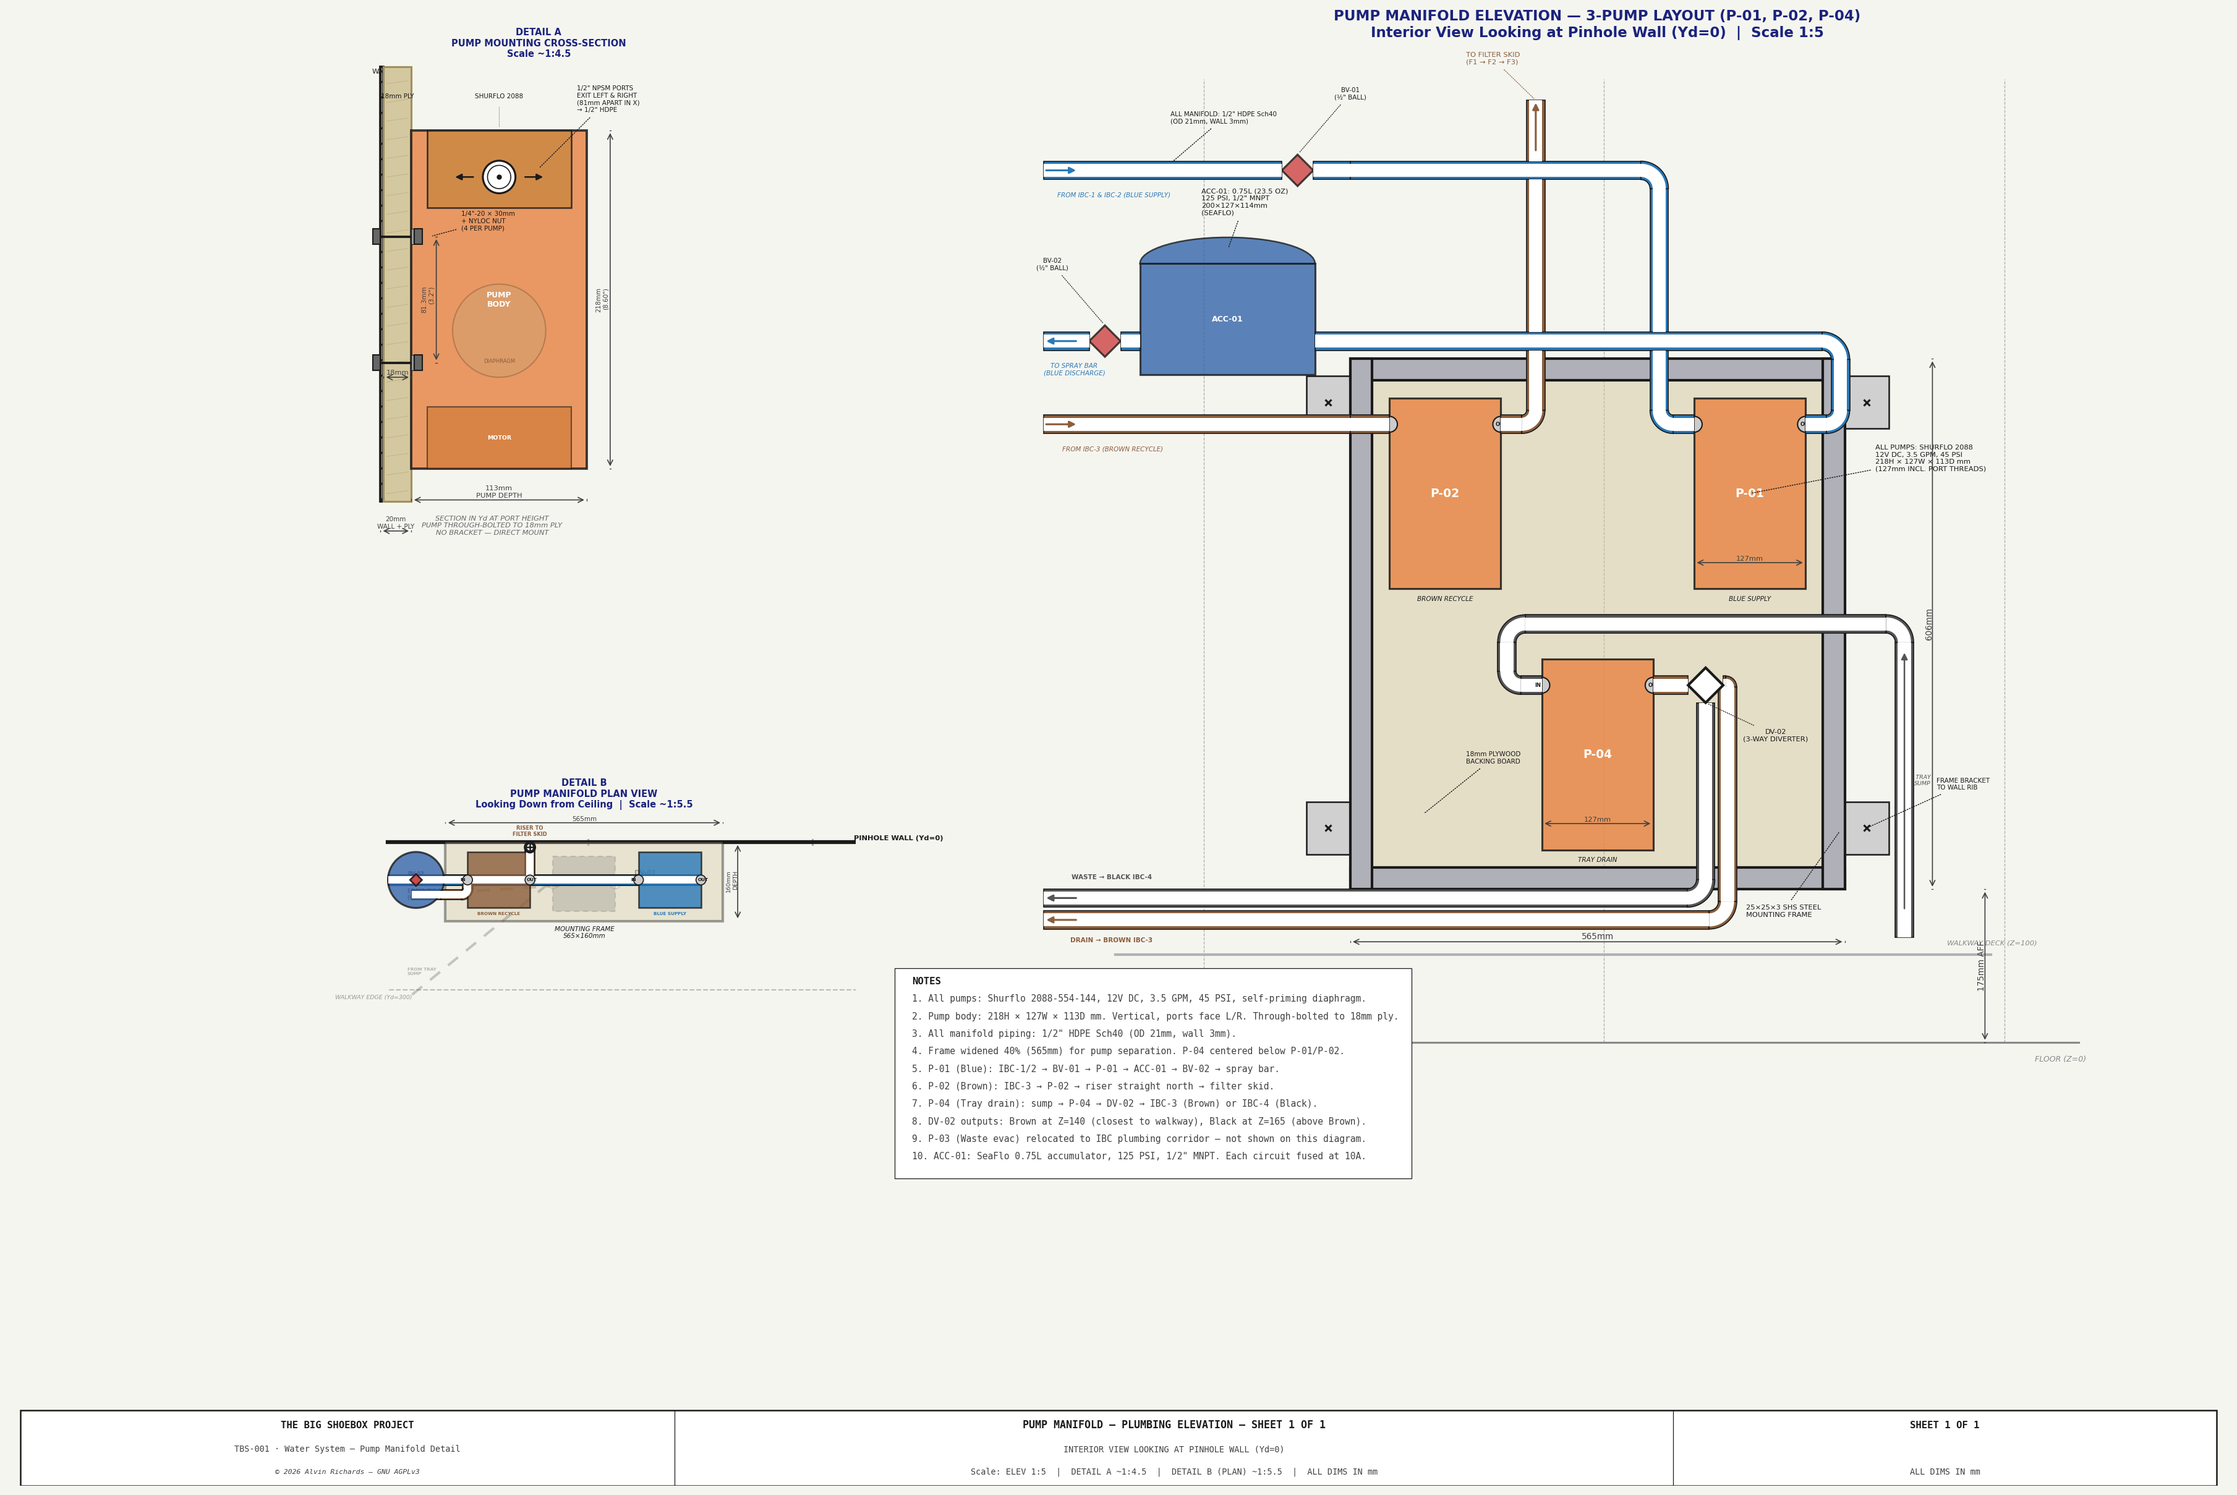
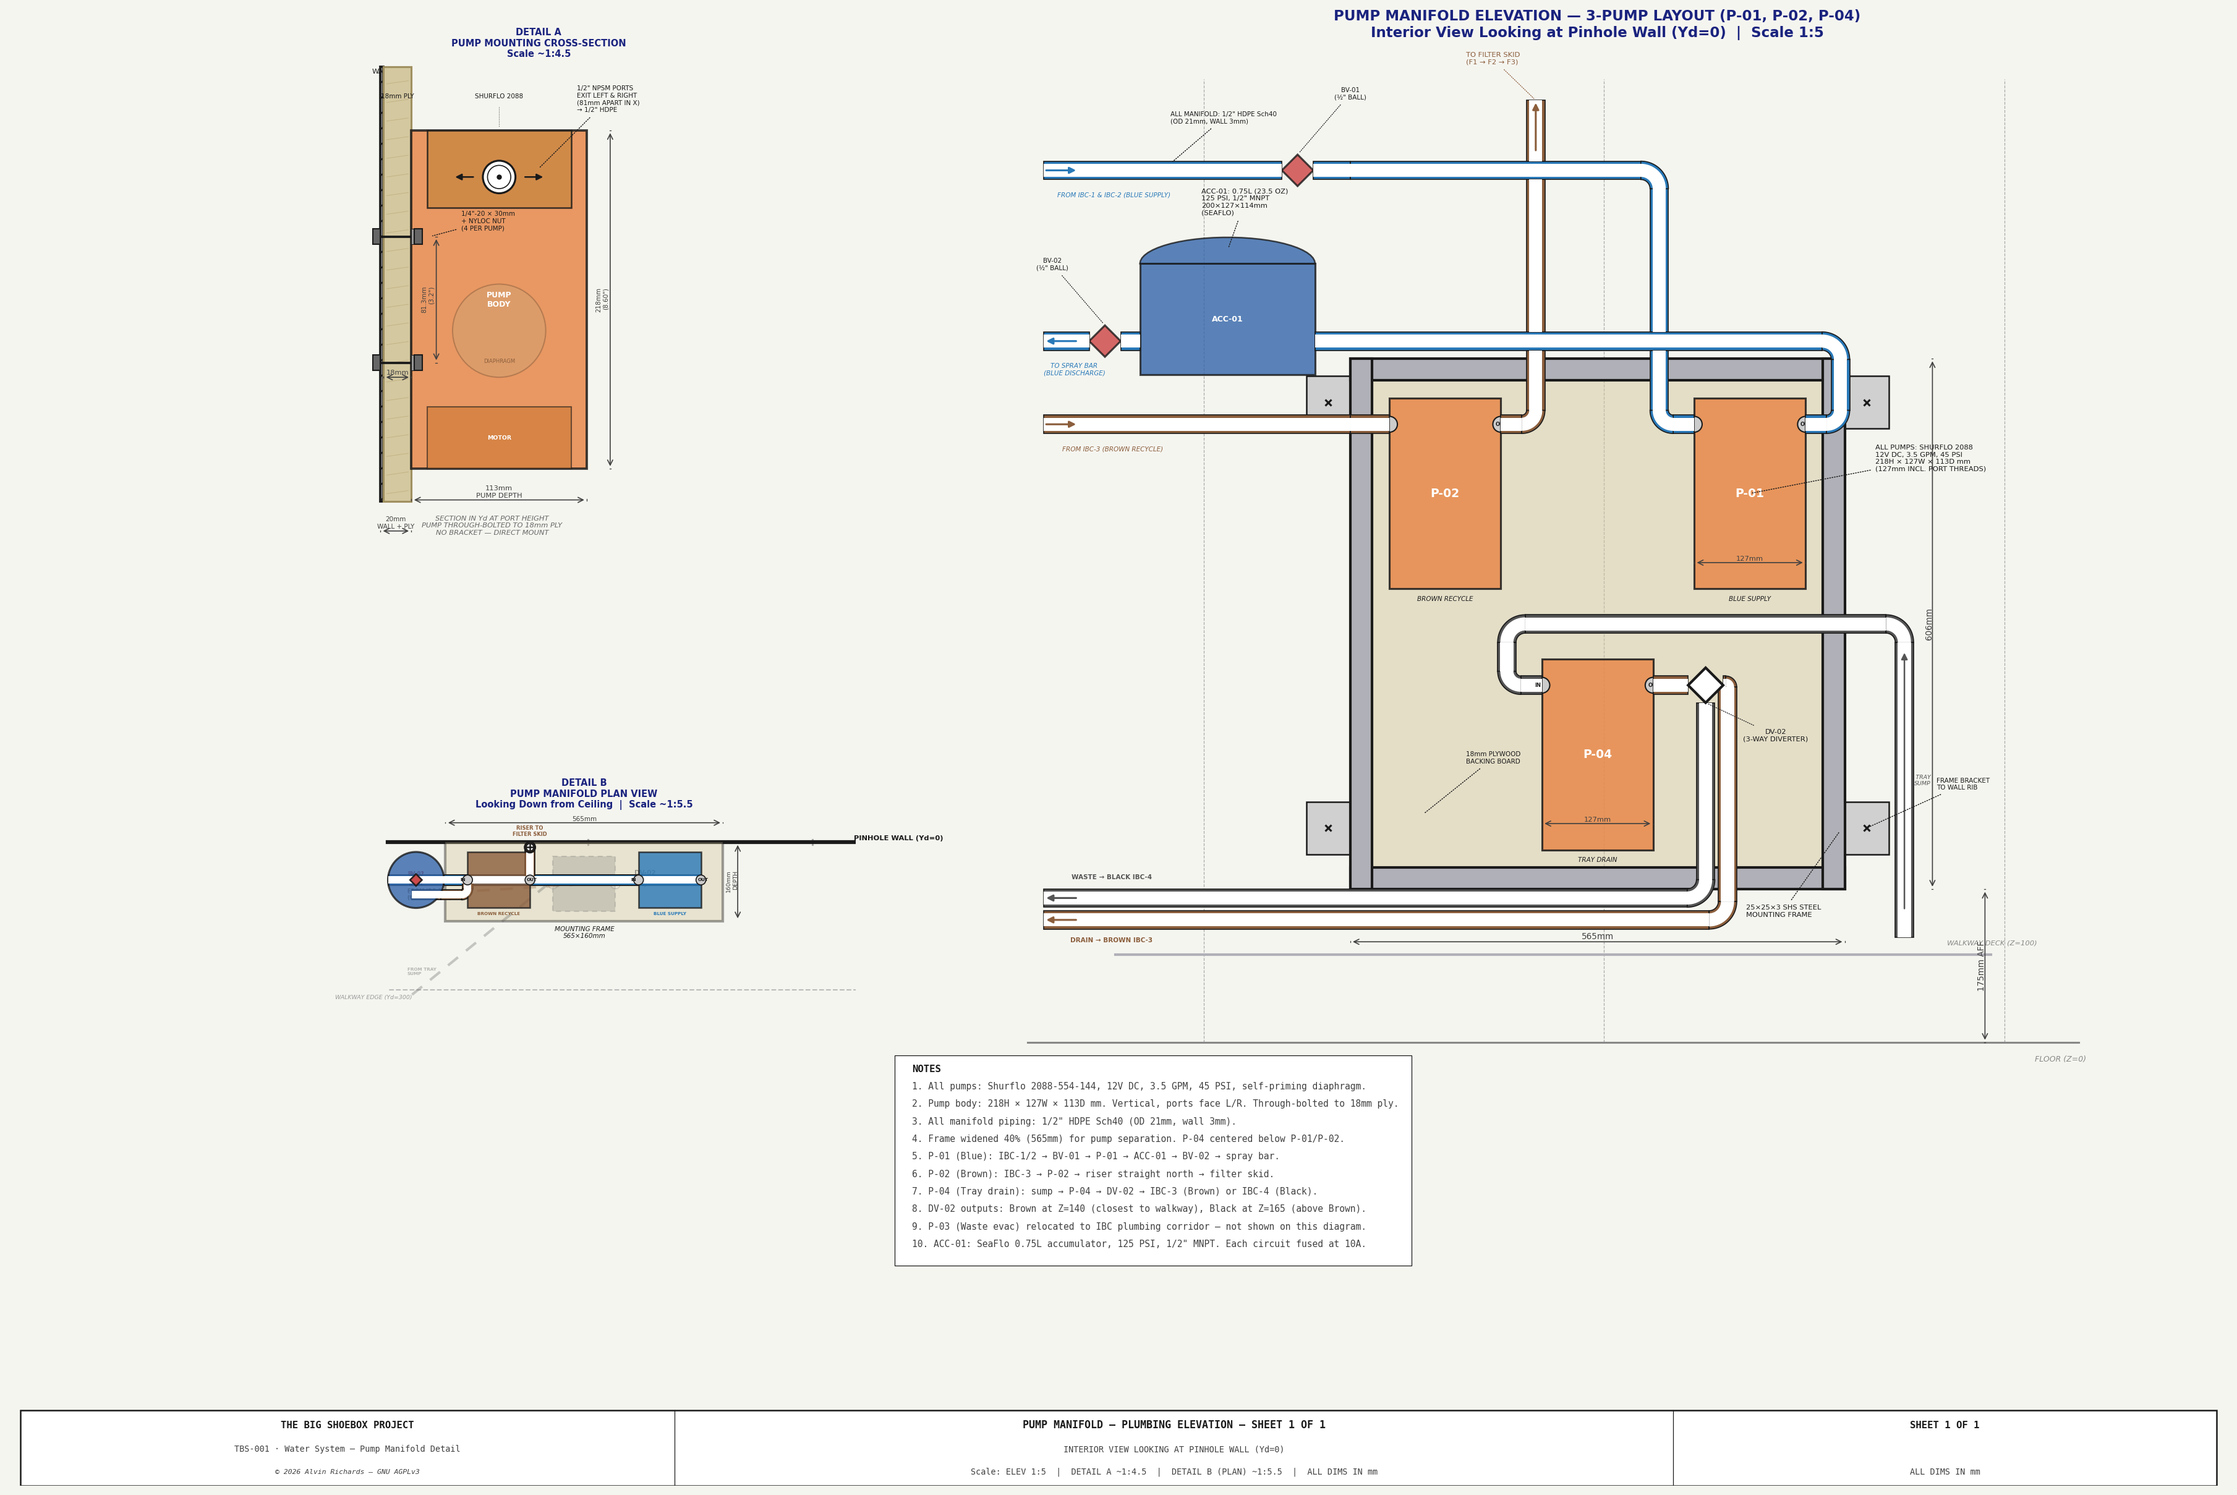
Pinhole wall elevation: add plan view showing walkway access impact
Two-panel layout: elevation (top) + plan view (bottom, X vs Yd).
Each component's depth from the pinhole wall is shown as a colored
rectangle. Max-egress components are solid; dominated components
(e.g. ACC-01, fully covered by the deeper filter unit) are ghosted.
Evap cooler 50mm overhang past walkway edge highlighted in red.
Yd scale exaggerated 1.5x for depth visibility.

Changed region(s): [[0.406, 0.6514, 0.6247, 0.8375]]

diff --git a/generate_pinhole_wall_elevation.py b/generate_pinhole_wall_elevation.py
@@ -21,7 +21,7 @@ import matplotlib.patches as mpatches
 from tbs_constants import (
     C_LEN, C_WID, C_HGT,
     PH_X, PH_H, PH_D,
-    EVAP_X, EVAP_W, EVAP_H,
+    EVAP_X, EVAP_W, EVAP_H, EVAP_D,
     PWR_PANEL_X, PWR_PANEL_W, PWR_PANEL_H,
     EP_X, EP_W, EP_H_LO, EP_H_HI,
     BA_X, BA_W, BA_H_LO, BA_H_HI,
@@ -32,7 +32,7 @@ from tbs_constants import (
     PUMP_PIPE_OD, PUMP_PIPE_WALL,
     TAP_X, TAP_Z,
     SHELF_X_L, SHELF_X_R, SHELF_H, SHELF_T, SHELF_HANGER_N,
-    SHELF_YD_NEAR,
+    SHELF_YD_NEAR, SHELF_DEPTH,
     WALKWAY_H, WALKWAY_GRATE_T, WALKWAY_W,
     WALKWAY_BRACKET_H, WALKWAY_BRACKET_T,
     CONTAINER_RIB_SPACING,
@@ -137,7 +137,10 @@ C_TRUNKING = "#808080" # cable trunking
 # S maps mm → figure inches.  Container 5893×2388 must fit comfortably.
 # Available drawing area ≈ 22" wide × 8" tall (in a 26×12" figure).
 S = 0.00335   # mm → inches  (≈1:7.6 at screen DPI, ≈1:20 at 300dpi print)
-FW, FH = 26.0, 12.0
+FW = 26.0
+FH = 12.0                       # elevation panel height (inches)
+FH_PLAN = 5.0                   # plan view panel height (inches)
+FH_TOTAL = FH + FH_PLAN         # total figure height
 OX = 2.5    # drawing origin X offset (inches)
 OZ = 2.5    # drawing origin Z offset (inches) — room for notes below
 
@@ -152,12 +155,22 @@ def sz(z_mm):
     return OZ + z_mm * S
 
 # ── Figure setup ────────────────────────────────────────────────────────────
-fig, ax = plt.subplots(figsize=(FW, FH), dpi=150)
+PLAN_FRAC = FH_PLAN / FH_TOTAL
+ELEV_FRAC = FH / FH_TOTAL
+
+fig = plt.figure(figsize=(FW, FH_TOTAL), dpi=150)
+
+ax = fig.add_axes([0, PLAN_FRAC, 1, ELEV_FRAC])
 ax.set_xlim(0, FW)
 ax.set_ylim(0, FH)
 ax.set_aspect("equal")
 ax.axis("off")
-fig.subplots_adjust(left=0, right=1, top=1, bottom=0)
+
+ax2 = fig.add_axes([0, 0, 1, PLAN_FRAC])
+ax2.set_xlim(0, FW)
+ax2.set_ylim(0, FH_PLAN)
+ax2.set_aspect("equal")
+ax2.axis("off")
 
 FONT = {"fontfamily": "monospace"}
 
@@ -1044,13 +1057,196 @@ draw_notes(ax, notes, 0.105 * FW, 0.65 * FH, spacing=0.012 * FH,
            fs=4.5, width=4.75, color=C_DIM, title_color=C_DIM, font=FONT)
 
 # ═══════════════════════════════════════════════════════════════════════════
-# 8. TITLE BLOCK
+# 8. PLAN VIEW — NEAR WALKWAY ACCESS ANALYSIS
 # ═══════════════════════════════════════════════════════════════════════════
-title_block(ax, "SHEET 1 OF 1",
-            drawing_title="PINHOLE WALL — COMBINED INTERIOR ELEVATION",
-            subtitle="ALL SYSTEMS · INTERFERENCE CHECK",
-            scale_note="SCALE 1:20  ·  ALL DIMS IN mm",
-            doc_id="TBS-001 · Pinhole Wall")
+# Shows component footprints in X vs Yd (depth from pinhole wall).
+# Yd scale is exaggerated 1.5x vs X for depth visibility.
+# The component with the largest egress into the walkway at any X position
+# is drawn solid; others at the same X position are ghosted.
+
+EP_DEPTH_YD     = 160    # electrical panel box depth (mm)
+BA_DEPTH_YD     = 220    # battery bank (175mm cells + bracket)
+PM_DEPTH_YD     = 200    # pump manifold (ply + frame + pump + ports)
+ACC_DEPTH_YD    = 200    # accumulator (same mount depth as pump frame)
+FSKID_DEPTH_YD  = 250    # filter unit (ply + standoff + housing body)
+
+PLAN_S_YD = S * 1.5             # Yd scale ~1.5x elevation X scale
+PLAN_OYD  = 0.8                 # Y offset in ax2 data coords
+
+def plan_sy(yd_mm):
+    """Convert Yd (mm from wall) to plan view y coordinate on ax2."""
+    return PLAN_OYD + yd_mm * PLAN_S_YD
+
+def plan_block(xl, xr, yd_near, yd_far, label, fc, *,
+               ec=C_OUT, lw=1.0, ls="-", alpha=0.75,
+               label_fs=4.5, label_color=C_OUT, zorder=5):
+    """Draw a component footprint rectangle on the plan view (ax2)."""
+    x_draw = sx(xr)
+    w_draw = sx(xl) - sx(xr)
+    y_draw = plan_sy(yd_near)
+    h_draw = plan_sy(yd_far) - plan_sy(yd_near)
+    ax2.add_patch(mpatches.FancyBboxPatch(
+        (x_draw, y_draw), w_draw, h_draw,
+        boxstyle="square,pad=0", fc=fc, ec=ec,
+        lw=lw, ls=ls, alpha=alpha, zorder=zorder))
+    if label:
+        cx = sx((xl + xr) / 2)
+        cy = plan_sy((yd_near + yd_far) / 2)
+        ax2.text(cx, cy, label, ha="center", va="center",
+                fontsize=label_fs, color=label_color,
+                zorder=zorder + 1, **FONT)
+
+# ── Container wall line (Yd=0) ──────────────────────────────────────────────
+ax2.plot([sx(0), sx(C_LEN)], [plan_sy(0), plan_sy(0)],
+        color=C_OUT, lw=2.5, zorder=2)
+ax2.text(sx(C_LEN / 2), plan_sy(0) - 0.12,
+        "PINHOLE WALL (Yd = 0)", ha="center", va="top",
+        fontsize=5, color=C_OUT, fontweight="bold", zorder=10, **FONT)
+
+# ── Walkway grating zone (X=470-4629, Yd=0-300mm) ──────────────────────────
+wk_x_draw = sx(WK_X_R)
+wk_w_draw = sx(WK_X_L) - sx(WK_X_R)
+ax2.add_patch(mpatches.FancyBboxPatch(
+    (wk_x_draw, plan_sy(0)), wk_w_draw, plan_sy(WALKWAY_W) - plan_sy(0),
+    boxstyle="square,pad=0", fc="#F0F0F0", ec="none", alpha=0.5, zorder=1))
+for hx in range(int(WK_X_L), int(WK_X_R), 200):
+    ax2.plot([sx(hx), sx(hx + 100)],
+            [plan_sy(0), plan_sy(WALKWAY_W)],
+            color="#D8D8D8", lw=0.2, zorder=1)
+ax2.text(sx(500), plan_sy(WALKWAY_W / 2),
+        "NEAR WALKWAY\n(300mm)", ha="center", va="center",
+        fontsize=5, color="#BBBBBB", style="italic", zorder=2, **FONT)
+
+# ── Walkway outer edge (Yd=300mm) ──────────────────────────────────────────
+ax2.plot([sx(0), sx(C_LEN)], [plan_sy(WALKWAY_W), plan_sy(WALKWAY_W)],
+        color=C_OUT, lw=1.0, ls="--", zorder=2)
+ax2.text(sx(50), plan_sy(WALKWAY_W) + 0.06,
+        "WALKWAY OUTER EDGE (Yd = 300)", ha="left", va="bottom",
+        fontsize=4.5, color=C_DIM, zorder=10, **FONT)
+
+# ── Component footprints ────────────────────────────────────────────────────
+plan_comps = [
+    ("EVAPORATIVE\nCOOLER", EVAP_X, EVAP_X + EVAP_W,
+     0, EVAP_D, C_EVAP, "Z = 100–900"),
+    ("ELECTRICAL\nPANEL", EP_X, EP_X + EP_W,
+     0, EP_DEPTH_YD, C_ELEC, "Z = 900–1500"),
+    ("BATTERY\nBANK", BA_X, BA_X + BA_W,
+     0, BA_DEPTH_YD, C_BATT, "Z = 100–600"),
+    ("PUMP\nMANIFOLD", PM_FRAME_X, PM_FRAME_X + PM_FRAME_W,
+     0, PM_DEPTH_YD, C_PUMP, "Z = 235–781"),
+    ("ACC-01", PM_ACC_X, PM_ACC_X + PM_ACC_W,
+     0, ACC_DEPTH_YD, C_BLUE, "Z ≈ 790"),
+    ("FILTER\nUNIT", FSKID_X, FSKID_X + FSKID_W,
+     0, FSKID_DEPTH_YD, C_FILTER, "Z = 1410–2010"),
+    ("CHEMISTRY\nSHELF", SHELF_X_L, SHELF_X_R,
+     SHELF_YD_NEAR, SHELF_YD_NEAR + SHELF_DEPTH, C_SHELF, "Z = 1025"),
+]
+
+# Determine max-egress status: solid if no other component fully covers
+# this component's X range with deeper Yd; ghosted otherwise.
+comp_solid = []
+for i, (_, xl, xr, yn, yf, _, _) in enumerate(plan_comps):
+    dominated = False
+    for j, (_, oxl, oxr, oyn, oyf, _, _) in enumerate(plan_comps):
+        if i == j:
+            continue
+        if oxl <= xl and oxr >= xr and oyn <= yn and oyf > yf:
+            dominated = True
+            break
+    comp_solid.append(not dominated)
+
+# Draw ghosted components first, then solid on top
+for solid_pass in (False, True):
+    for k, (name, xl, xr, yn, yf, color, zr) in enumerate(plan_comps):
+        is_solid = comp_solid[k]
+        if is_solid != solid_pass:
+            continue
+        alpha = 0.75 if is_solid else 0.25
+        lw_c = 1.0 if is_solid else 0.5
+        ls_c = "-" if is_solid else "--"
+        zo = 5 if is_solid else 3
+        lbl_fs = 4.5 if is_solid else 3.5
+        lbl_col = C_OUT if is_solid else "#999"
+        plan_block(xl, xr, yn, yf, name, color,
+                   lw=lw_c, ls=ls_c, alpha=alpha, zorder=zo,
+                   label_fs=lbl_fs, label_color=lbl_col)
+
+# Z range annotations inside solid components (lower portion)
+for k, (name, xl, xr, yn, yf, color, zr) in enumerate(plan_comps):
+    if not comp_solid[k]:
+        continue
+    cx = sx((xl + xr) / 2)
+    cy_bot = plan_sy(yn + (yf - yn) * 0.2)
+    ax2.text(cx, cy_bot, zr, ha="center", va="center",
+            fontsize=3, color="#666", zorder=6, **FONT)
+
+# ── Processing tray near rim (context) ──────────────────────────────────────
+ax2.plot([sx(PROC_TRAY_X_L), sx(PROC_TRAY_X_R)],
+        [plan_sy(PROC_TRAY_YD_NEAR), plan_sy(PROC_TRAY_YD_NEAR)],
+        color=C_TRAY_EC, lw=0.8, ls=":", zorder=4)
+ax2.text(sx(PROC_TRAY_X_R - 150), plan_sy(PROC_TRAY_YD_NEAR) + 0.04,
+        "PROC TRAY NEAR RIM (Yd = 80)", ha="right", va="bottom",
+        fontsize=3.5, color=C_TRAY_EC, zorder=10, **FONT)
+
+# ── Evap cooler overhang warning ─────────────────────────────────────────────
+if EVAP_D > WALKWAY_W:
+    _overhang = EVAP_D - WALKWAY_W
+    ax2.annotate("", xy=(sx(EVAP_X + EVAP_W / 2), plan_sy(WALKWAY_W)),
+                xytext=(sx(EVAP_X + EVAP_W / 2), plan_sy(EVAP_D)),
+                arrowprops=dict(arrowstyle="<->", color="#CC0000", lw=1.0),
+                zorder=10)
+    ax2.text(sx(EVAP_X + EVAP_W / 2) + 0.12,
+            plan_sy((WALKWAY_W + EVAP_D) / 2),
+            f"{_overhang}mm\nOVERHANG", ha="left", va="center",
+            fontsize=4.5, color="#CC0000", fontweight="bold",
+            zorder=10, **FONT)
+
+# ── Depth dimension lines ───────────────────────────────────────────────────
+_dim_items = [
+    (EVAP_X + EVAP_W * 0.75, EVAP_D, f"{EVAP_D}mm", C_EVAP),
+    (BA_X + BA_W * 0.75, BA_DEPTH_YD, f"{BA_DEPTH_YD}mm", C_BATT),
+    (FSKID_X + FSKID_W * 0.25, FSKID_DEPTH_YD, f"{FSKID_DEPTH_YD}mm", C_FILTER),
+]
+for _dx_mm, _yd_max, _dlabel, _dcolor in _dim_items:
+    draw_dim_v(ax2, sx(_dx_mm), plan_sy(0), plan_sy(_yd_max),
+               _dlabel, offset=0.1, fs=4.5, color=_dcolor,
+               right=True, font=FONT)
+
+# ── Yd scale marks (right side) ─────────────────────────────────────────────
+_yd_scale_x = sx(0) + 0.2
+for _yd_val in range(0, 601, 100):
+    _y = plan_sy(_yd_val)
+    ax2.plot([_yd_scale_x - 0.04, _yd_scale_x + 0.04], [_y, _y],
+            color=C_DIM, lw=0.4, zorder=10)
+    ax2.text(_yd_scale_x + 0.08, _y, f"{_yd_val}",
+            ha="left", va="center", fontsize=3.5, color=C_DIM,
+            zorder=10, **FONT)
+ax2.text(_yd_scale_x + 0.08, plan_sy(300) + 0.25,
+        "Yd (mm)\n↑ INTO CONTAINER", ha="left", va="bottom",
+        fontsize=4, color=C_DIM, fontweight="bold", zorder=10, **FONT)
+
+# ── Section title ───────────────────────────────────────────────────────────
+_plan_title_y = FH_PLAN - 0.45
+ax2.text(sx(C_LEN / 2), _plan_title_y,
+        "PLAN VIEW — NEAR WALKWAY ACCESS ANALYSIS",
+        ha="center", va="bottom", fontsize=9, color=C_OUT,
+        fontweight="bold", zorder=10, **FONT)
+ax2.text(sx(C_LEN / 2), _plan_title_y - 0.12,
+        "VIEW: LOOKING DOWN · Yd SCALE 1.5× EXAGGERATED"
+        " · MAX-EGRESS SOLID, OTHERS GHOSTED",
+        ha="center", va="top", fontsize=4.5, color=C_DIM,
+        zorder=10, **FONT)
+
+# ═══════════════════════════════════════════════════════════════════════════
+# 9. TITLE BLOCK
+# ═══════════════════════════════════════════════════════════════════════════
+title_block(ax2, "SHEET 1 OF 1",
+            drawing_title="PINHOLE WALL — COMBINED ELEVATION + PLAN VIEW",
+            subtitle="ALL SYSTEMS · INTERFERENCE CHECK · WALKWAY ACCESS",
+            scale_note="ELEV ~1:20 · PLAN Yd 1.5× EXAG."
+                       " · ALL DIMS IN mm",
+            doc_id="TBS-001 · Pinhole Wall",
+            height=0.045 * FH / FH_PLAN)
 
 # ── Save ────────────────────────────────────────────────────────────────────
 os.makedirs(DIAGRAMS_DIR, exist_ok=True)

diff --git a/generate_pump_manifold_diagram.py b/generate_pump_manifold_diagram.py
@@ -762,7 +762,7 @@ notes = [
     "9. P-03 (Waste evac) relocated to IBC plumbing corridor — not shown on this diagram.",
     "10. ACC-01: SeaFlo 0.75L accumulator, 125 PSI, 1/2\" MNPT. Each circuit fused at 10A.",
 ]
-draw_notes(ax, notes, sx(PIPE_EXIT_X + 150), sz(75), spacing=4.0, fs=7,
+draw_notes(ax, notes, sx(PIPE_EXIT_X + 150), sz(-25), spacing=4.0, fs=7,
            width=110, font={"fontfamily": "monospace"})
 
 
